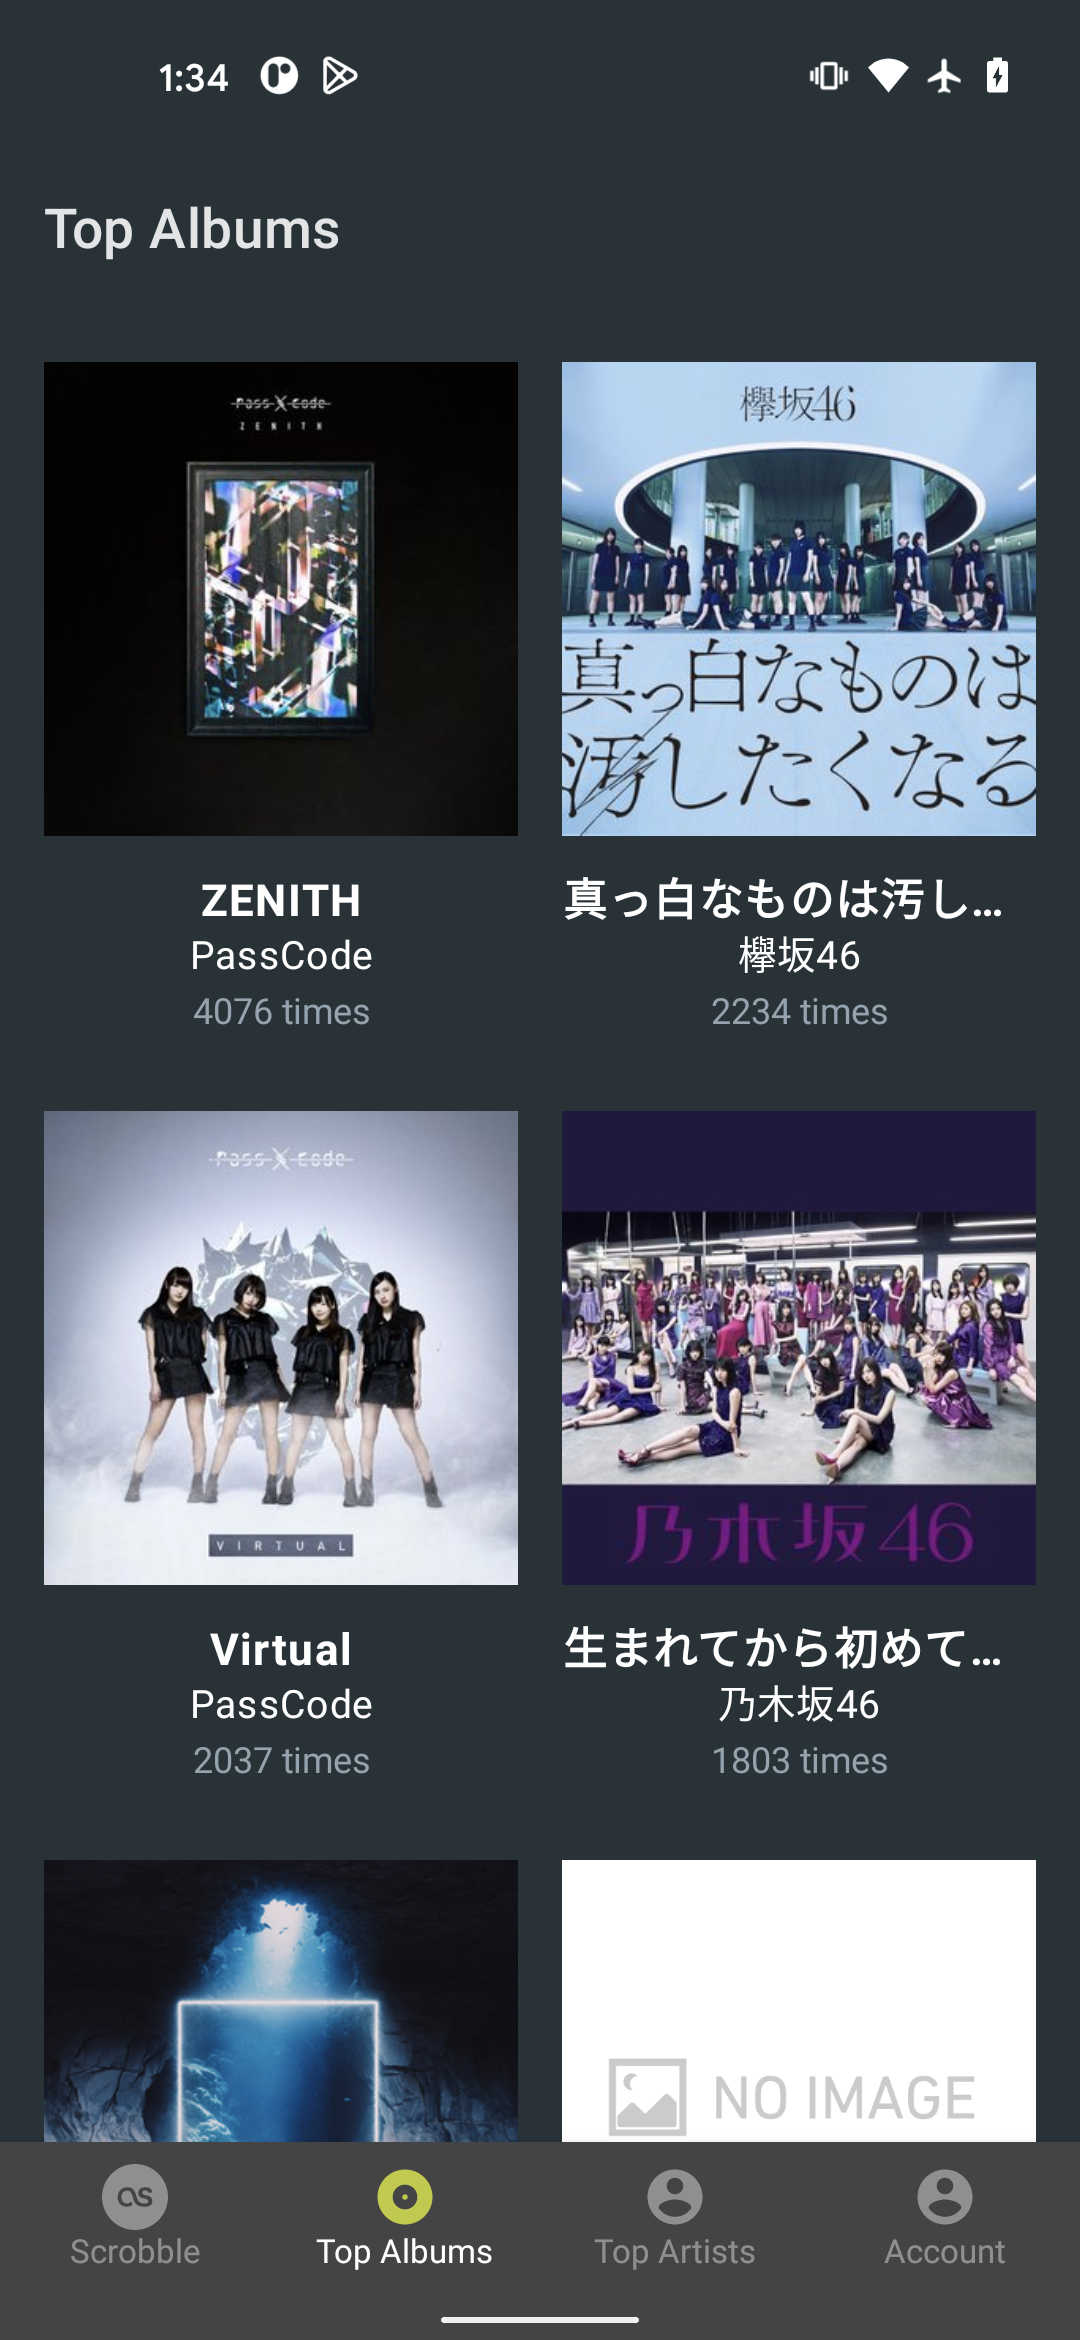
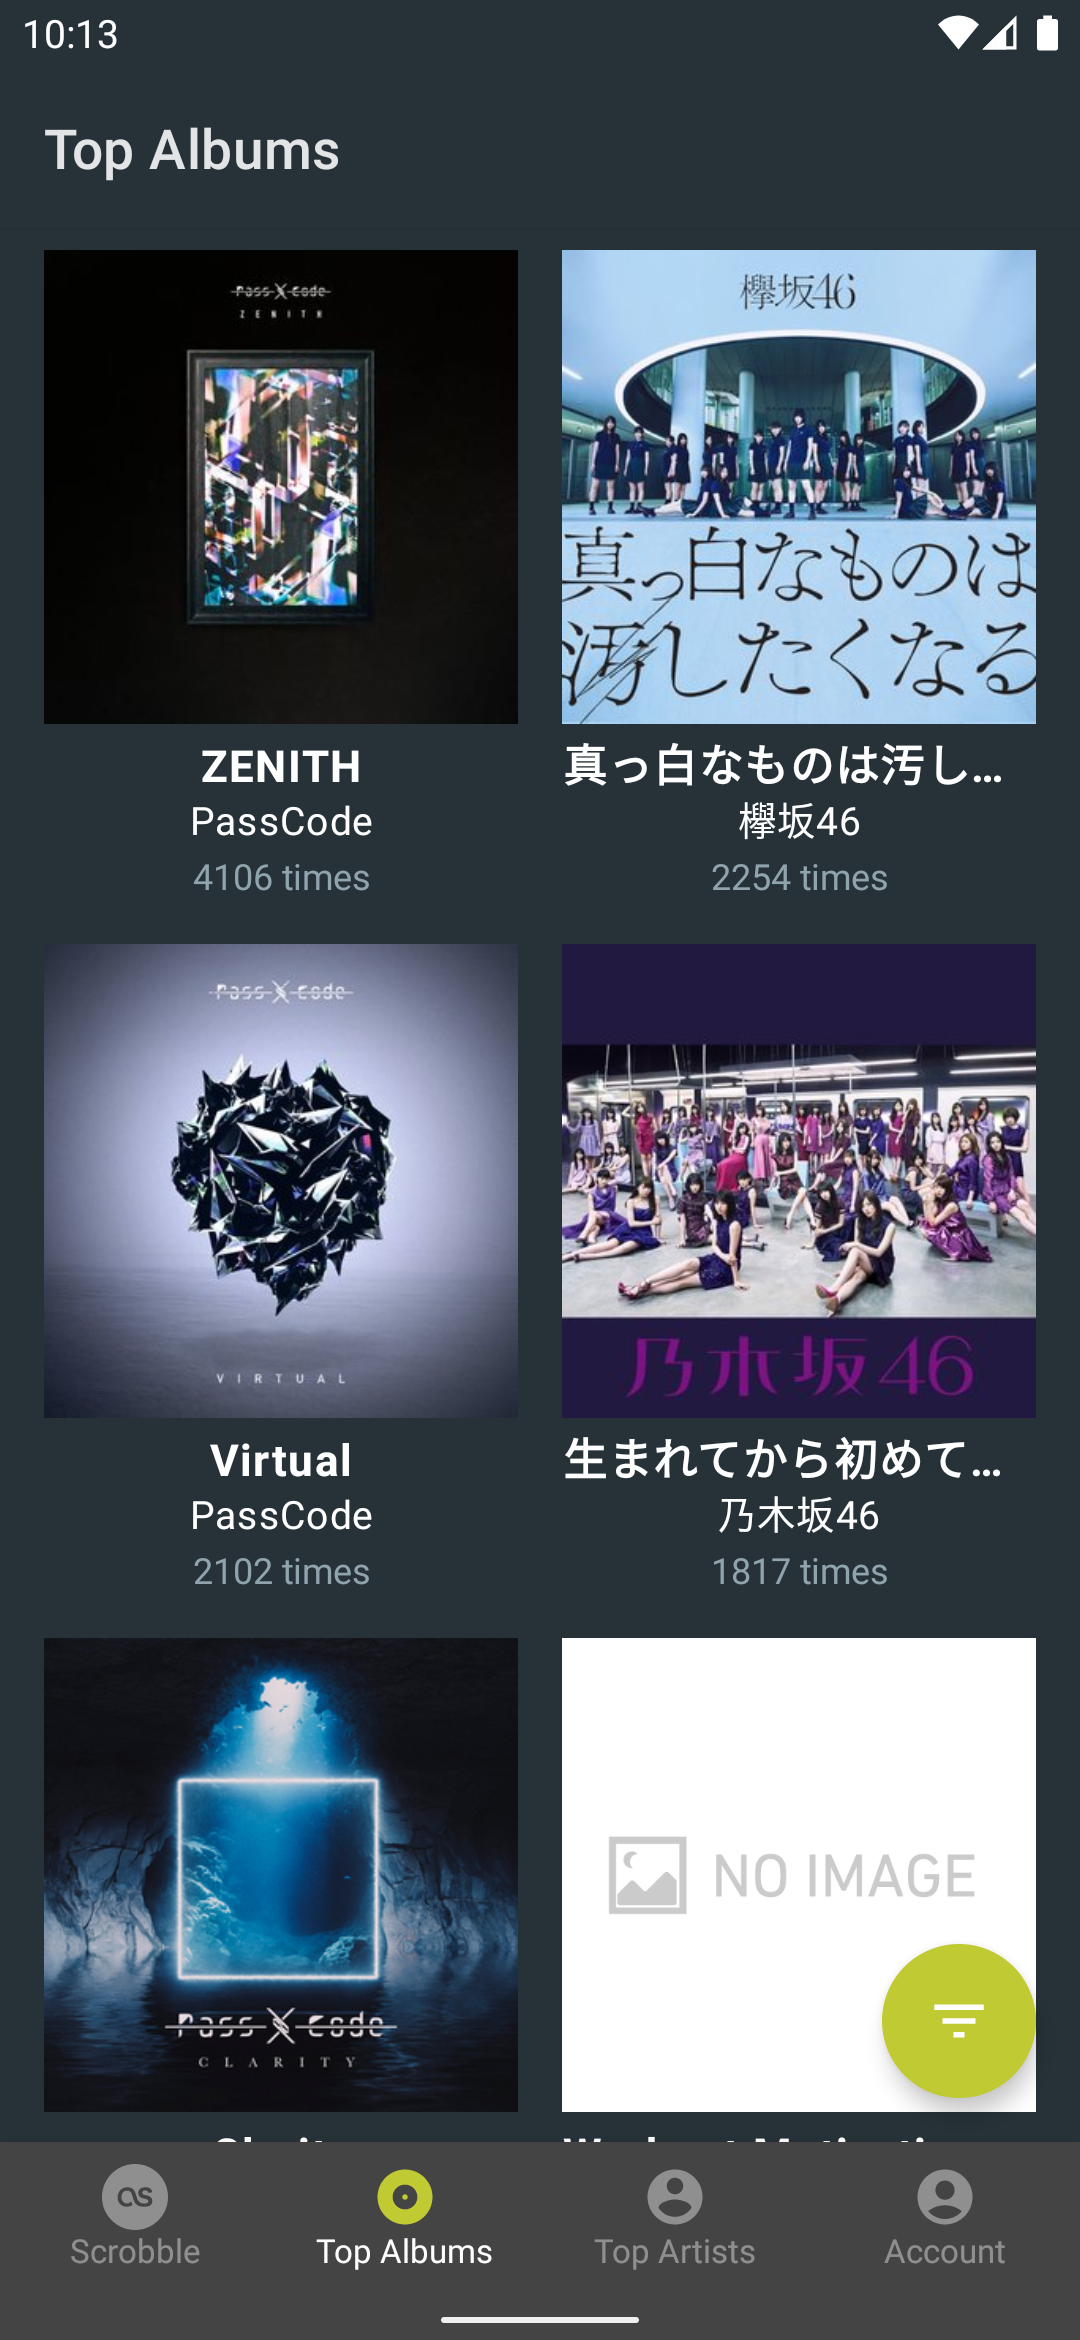
current status

diff --git a/README.md b/README.md
@@ -5,7 +5,9 @@ Last.fm client on Android (mainly for my portfolio)
 ## Features
 - Show latest scrobbles
 - Show top albums
+- Filter top albums by time range
 - Show top artists
+- Filter top artists by time range
 - Update NowPlaying and Scrobbling (for Apple Music, Spotify, and YouTube Music only)
 - Switch themes
 - Shared element transition
